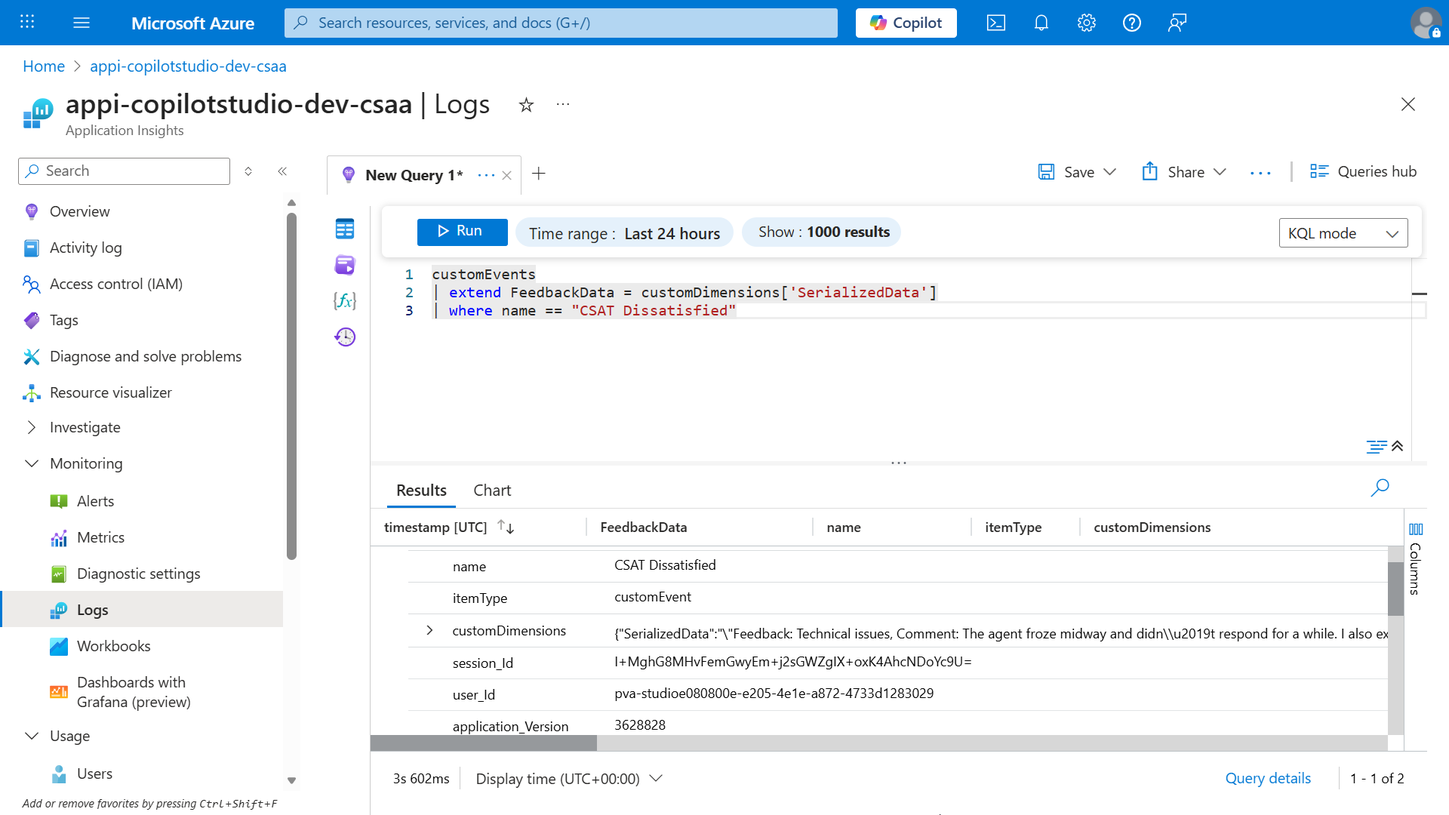
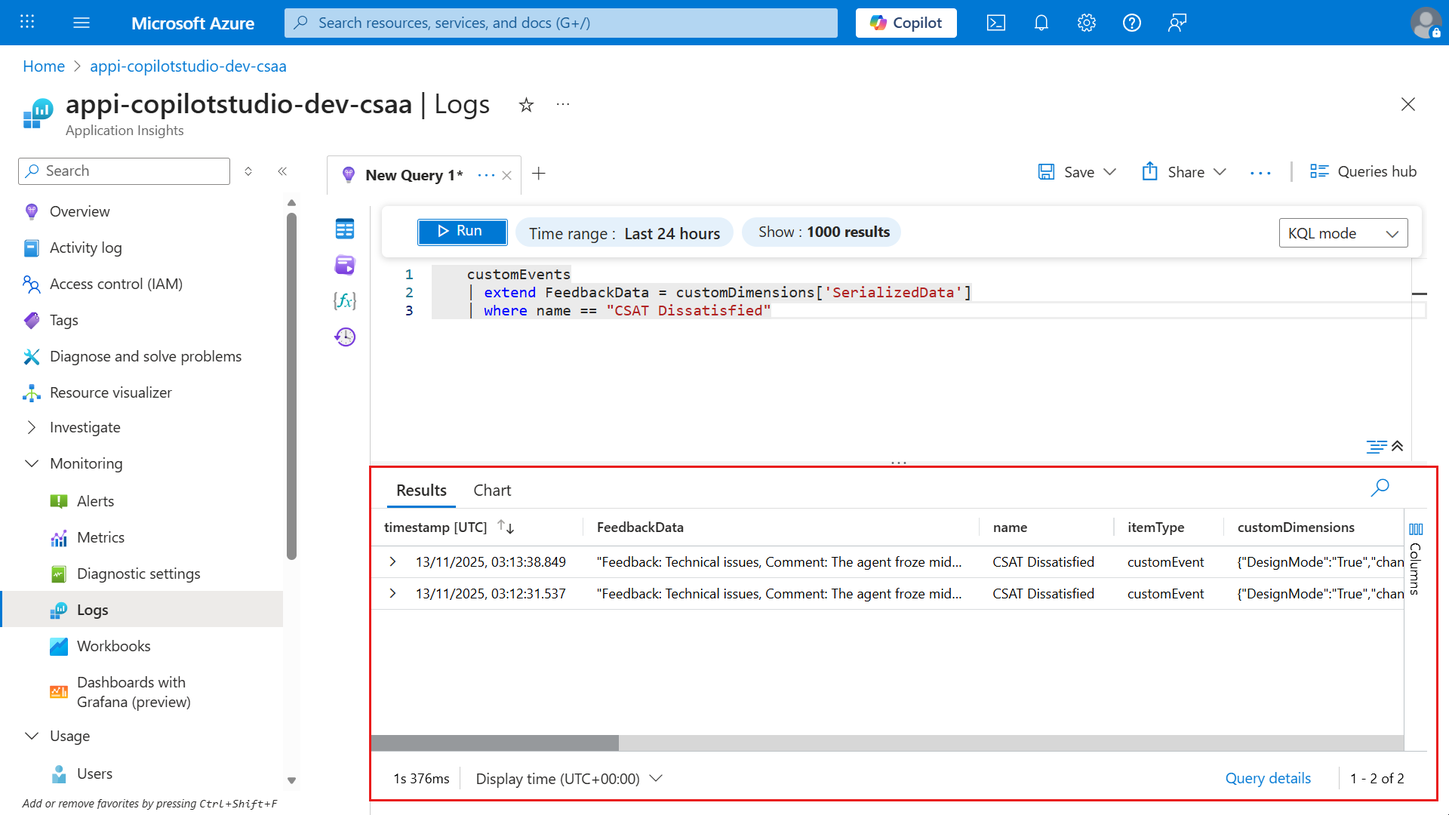
Updated lab exercises for docs\operative-preview\05-agent-responses\README.md and cspell.json

diff --git a/docs/operative-preview/11-obtain-user-feedback/README.md b/docs/operative-preview/11-obtain-user-feedback/README.md
@@ -10,21 +10,23 @@
 
 Welcome back, Agent. In [Mission 10](../04-agent-instructions/README.md) - you learnt how to build an effective prompt to generate documents.
 
-Your assignment, should you choose to accept it, is **Operation Echo** - focusing on collecting feedback to understand user satisfaction towards the agents you develop. This feedback loop allows you to make iterative enhancements to your agent to ensure end user satisfaction.
+Your assignment, should you choose to accept it, is **Operation Echo,** a critical intelligence-gathering mission focused on extracting actionable feedback from your deployed AI agents. In the shadowy world of conversational intelligence, user satisfaction data is more valuable than gold. This mission will teach you two primary methods of intelligence collection:
 
-TBC
+**Phase 1: Surveillance** - Deploy built-in reaction mechanisms (👍🏻/👎🏻) to conduct monitoring of user sentiment.
 
-Listen, modify, repeat - this is the mission when reviewing user feedback.
+**Phase 2: Active Engagement** - Implement custom Adaptive Card feedback systems for targeted intelligence gathering when deeper insights are required.
+
+*Listen, analyze, adapt* - this is the operative's creed when processing user intelligence.
 
 ## 🔎 Objectives
 
 In this mission, you'll learn:
 
-1. TBC
-1. TBC
-1. TBC
-1. TBC
-1. TBC
+1. How to use built-in thumbs up/down reactions to collect feedback from users
+1. How to analyze feedback data using Copilot Studio's Analytics dashboard
+1. How to create custom feedback collection using Adaptive Cards
+1. How to implement conditional feedback flows based on CSAT ratings
+1. How to log custom telemetry events to Azure Application Insights for advanced feedback tracking
 
 ## The importance of user feedback
 
@@ -57,13 +59,13 @@ After each AI response, users will see a small UI with 👍🏻/👎🏻 icons. 
 The thumbs up/down system's primary purpose is to measure user satisfaction at the response level. It provides immediate, granular feedback on whether each answer fulfilled the user's needs or not. Key benefits include:
 
 - **Quick Sentiment Signal**: A thumbs-up means the user was satisfied, while thumbs-down flags dissatisfaction. This binary signal is easy for users to provide and easy for developers to interpret at scale.
-- **Aggregated “Satisfaction” Metric**: In _Copilot Studio Analytics_, a "Reactions" section (under the broader Satisfaction analytics) tallies all feedback received. You can quickly see how many responses were marked positive or negative over time. This serves as a satisfaction scorecard for your agent's responses.
+- **Aggregated “Satisfaction” Metric**: In *Copilot Studio Analytics*, a "Reactions" section (under the broader Satisfaction analytics) tallies all feedback received. You can quickly see how many responses were marked positive or negative over time. This serves as a satisfaction scorecard for your agent's responses.
 - **Identify Improvement Areas**: By filtering or reviewing thumbs-down instances and their comments, developers can spot patterns. For example, specific topics or questions that often get negative feedback. These are prime candidates for improving your knowledge base or refining your prompts.
 - **No Coding Required**: Since it's built-in, makers do not need to configure anything to start collecting this feedback (the setting is on by default). The data is automatically available in the Copilot Studio analytics dashboard.
 
 ### Why it matters
 
-This reaction mechanism gives immediate, objective insight into how well the AI is performing from the user's perspective. Reviewing user feedback helps identify new user scenarios and issues, and make improvements based on what users are asking for. In short, thumbs feedback is a quick pulse-check on each answer's usefulness
+This reaction mechanism gives immediate, objective insight into how well the AI is performing from the user's perspective. Reviewing user feedback helps identify new user scenarios and issues, and make improvements based on what users are asking for. In short, thumbs feedback is a quick pulse-check on each answer's usefulness.
 
 ## Viewing and interpreting feedback analytics
 
@@ -73,8 +75,8 @@ Copilot Studio provides a dedicated analytics view to make sense of the collecte
 - **Filter and Details**: You can drill down by selecting "See details" on the Reactions chart. This typically lets you filter feedback by type (all/thumbs-up/thumbs-down) and view the list of user comments associated with each feedback. Comments are extremely useful – a thumbs-down by itself signals a problem, but the user's comment might explain why `"The answer was incorrect"` or `"Didn't address my question"` etc.
 - **Trend Over Time**: The analytics can be viewed for different date ranges (last 7 days, 30 days, etc., up to 90 days). Monitoring trends helps see if recent changes to the agent improved satisfaction - for example, an increase in thumbs-up percentage after adding a new knowledge source.
 - **Session CSAT vs Per-Response Reactions**: The **Satisfaction** analytics also include a **Survey results** section for end-of-session customer satisfaction (CSAT) surveys. Don't confuse this with the per-response thumbs reactions:
-      - _Reactions_: feedback on individual answers (our focus here)
-      - _Survey Results_: an optional overall rating at the end of a conversation (a 1–5 star survey). Both appear under **Satisfaction** analytics, but thumbs reactions specifically populate the **Reactions** chart.
+      - *Reactions*: feedback on individual answers (our focus here)
+      - *Survey Results*: an optional overall rating at the end of a conversation (a 1–5 star survey). Both appear under **Satisfaction** analytics, but thumbs reactions specifically populate the **Reactions** chart.
 
 Interpreting the data: A high ratio of 👍🏻 vs 👎🏻 means most answers are on target. A spike in 👎🏻 for certain questions might reveal a knowledge gap or a misunderstanding by the AI. For instance, if many users give a thumbs down after asking about "pricing" it signals the agent's answer on pricing is unsatisfactory – perhaps outdated or incomplete. Developers should investigate those chat transcripts and improve content for that topic.
 
@@ -117,7 +119,7 @@ This means after the agent generates an answer, you can immediately follow up wi
 1. **(Optional) Store or forward the feedback**: The feedback collected via Adaptive Card is not automatically saved to the Analytics like the built-in reactions. If you want to persist this data for analysis, you should explicitly store it. For example, you could call a Power Automate flow or an API to record the feedback in a database or SharePoint list, including context like which question it was for. Alternatively, since the feedback appears as part of the conversation transcript (the user's selection is essentially a message from the user), it will be saved in Dataverse conversations. But it will be in a raw text/JSON form, you'd have to extract it for reporting.
 
 !!! tip "Best Practice"
-    Adaptive Cards in Copilot Studio are supported in all channels that the agent supports, but be mindful of Adaptive Card schema version differences. Copilot Studio uses Adaptive Cards v1.6 in the web test chat, but Microsoft Teams and some other channels support up to **v1.5**. In practice, this means if you design your card with features only in 1.6, it _might not_ render in Microsoft Teams. Best practice is to stick to v1.5 features for broad compatibility, or test your card in each channel. The good news is the typical feedback card (text, buttons) is basic and works fine in all channels.
+    Adaptive Cards in Copilot Studio are supported in all channels that the agent supports, but be mindful of Adaptive Card schema version differences. Copilot Studio uses Adaptive Cards v1.6 in the web test chat, but Microsoft Teams and some other channels support up to **v1.5**. In practice, this means if you design your card with features only in 1.6, it *might not* render in Microsoft Teams. Best practice is to stick to v1.5 features for broad compatibility, or test your card in each channel. The good news is the typical feedback card (text, buttons) is basic and works fine in all channels.
 
 ## 🦜 Why use Adaptive Cards for feedback
 
@@ -137,11 +139,11 @@ In summary, Adaptive Cards for feedback are ideal when you need more than a bina
 
 1. **Handle the response gracefully**: When the user clicks feedback, you might simply thank them silently (no need to always say `"Thanks for your feedback"` every time). In a support scenario, if someone says the answer wasn't useful, you might follow up to help: `"Sorry about that. Let me clarify or escalate your question."` This turns a negative feedback into an opportunity to recover the user's satisfaction.
 
-1. **Data Handling and Privacy**: The feedback data from the adaptive card is just part of the conversation in terms of storage. It will _not_ show up in the Copilot Studio Analytics dashboard (since that only tracks the built-in feedback reaction mechanism). It also won't automatically appear in any compliance audits (those typically log that a user message was sent, but not the content of an Adaptive Card submission specifically). So, if analyzing this feedback is important, plan to capture it. You can create an agent flow triggered by the conversation to write each feedback entry to a separate Dataverse table or external storage along with relevant info (user ID, question asked, etc.). This way you can do your own reporting on it.
+1. **Data Handling and Privacy**: The feedback data from the adaptive card is just part of the conversation in terms of storage. It will *not* show up in the Copilot Studio Analytics dashboard (since that only tracks the built-in feedback reaction mechanism). It also won't automatically appear in any compliance audits (those typically log that a user message was sent, but not the content of an Adaptive Card submission specifically). So, if analyzing this feedback is important, plan to capture it. You can create an agent flow triggered by the conversation to write each feedback entry to a separate Dataverse table or external storage along with relevant info (user ID, question asked, etc.). This way you can do your own reporting on it.
 
 1. **Disable built-in reactions to avoid duplication**: If you are fully relying on a custom feedback card for every answer, it might be wise to turn off the default thumbs feedback in the agent settings. Otherwise, users will see two feedback requests (the thumbs UI and your adaptive card) for the same response, which is confusing and overkill. Most implementations choose either one method or the other in production. However, you could still use both in different contexts - for example, maybe you keep thumbs enabled for Teams users, but on a custom website you use a tailored card. In any case, ensure the user isn't bombarded with redundant feedback prompts.
 
-1. **Test on all channels**: Because Adaptive Cards can render a bit differently in Teams vs. web chat, test your feedback cycle in each deployed channel. Make sure the card looks as intended and the submission is received by the agent. For instance, if using Teams, ensure the card's schema is _less than or equal to 1.5_ as noted earlier. Also verify that on mobile versions of Teams or web chat, the adaptive card is still easily usable.
+1. **Test on all channels**: Because Adaptive Cards can render a bit differently in Teams vs. web chat, test your feedback cycle in each deployed channel. Make sure the card looks as intended and the submission is received by the agent. For instance, if using Teams, ensure the card's schema is *less than or equal to 1.5* as noted earlier. Also verify that on mobile versions of Teams or web chat, the adaptive card is still easily usable.
 
 !!! note ""
     In the Copilot Studio documentation [example](https://learn.microsoft.com/microsoft-copilot-studio/guidance/adaptive-card-add-feedback-for-every-response), once the adaptive card feedback was set up, they provided a YAML snippet indicating how the agent can route the "useful/not useful" responses to a specific handling topic. This is a hint at the implementation: essentially treat the feedback like an intent that triggers either a follow-up or just completes. Implementing this means editing your agent's topics (or code) to catch those JSON responses.
@@ -158,11 +160,11 @@ Both feedback collection methods aim to improve your Copilot agent via user inpu
 | **Data captured** | Reaction (+ optional comment). Example: `"thumbs down (with comment: 'irrelevant answer')"`. No structured category beyond up/down. | Whatever data you design. Example: you might capture `"Rating: 3 stars"` or `"FeedbackChoice: NotUseful + Reason: Outdated info"`. The card submission is received as a JSON payload (key-value pairs) which you can parse |
 | **Analytics and visibility** | Automatically aggregated in Copilot Studio **Analytics** in **Satisfaction** section. Shows total count of 👍🏻 vs 👎🏻, and allows filtering/viewing comments | Not shown in Copilot Studio Analytics by default. These responses are essentially part of the conversation flow (stored in transcripts) and do not feed the out-of-box dashboards. You need to create your own reporting mechanism if you want to summarize this feedback. |
 | **Extensibility** | Limited (thumbs UI is fixed). Can't change the question or add more options to built-in mechanism. You can turn it off or on, that's it. | Extensible. You craft the adaptive card and can evolve it. Example: adding a third option `"Partially helpful"`, or asking a follow-up question if they respond negatively. Also, you decide when to invoke it (doesn't have to be every turn). |
-| **Ideal use cases** | General satisfaction monitoring for your agent's answers. Best when you want a quick gauge of every response's quality and a simple success metric to track over time. Great for initial deployments to gather broad feedback with minimal effort. | Deep feedback or custom workflows. Useful when specific insights are needed, Example: which of several answers is better, or when integrating feedback into other systems (like creating bug reports, triggering human review). Also valuable if you want to collect feedback in a specific format such as _category tags_ that the built-in reactions mechanism doesn't support. |
+| **Ideal use cases** | General satisfaction monitoring for your agent's answers. Best when you want a quick gauge of every response's quality and a simple success metric to track over time. Great for initial deployments to gather broad feedback with minimal effort. | Deep feedback or custom workflows. Useful when specific insights are needed, Example: which of several answers is better, or when integrating feedback into other systems (like creating bug reports, triggering human review). Also valuable if you want to collect feedback in a specific format such as *category tags* that the built-in reactions mechanism doesn't support. |
 
 As a rule of thumb (no pun intended 😆), **start with the built-in thumbs feedback** for any new agent – it's easy and provides immediate value in understanding user satisfaction. As your solution matures, if you find the need for more nuanced feedback, you can experiment with an Adaptive Card approach.
 
-Some advanced implementations even use both: for example, keeping thumbs up/down _enabled_, but also asking a targeted question via an adaptive card at the end of a session (like a mini survey). In that case, you'd get per-response sentiment (via reactions) and an overall session rating or comment (via your card). However keep in mind that the built-in CSAT is also covered by the Copilot Studio Analytics as highlighted earlier. Therefore as we learnt in this mission, record responses from adaptive cards to build your own custom reporting.
+Some advanced implementations even use both: for example, keeping thumbs up/down *enabled*, but also asking a targeted question via an adaptive card at the end of a session (like a mini survey). In that case, you'd get per-response sentiment (via reactions) and an overall session rating or comment (via your card). However keep in mind that the built-in CSAT is also covered by the Copilot Studio Analytics as highlighted earlier. Therefore as we learnt in this mission, record responses from adaptive cards to build your own custom reporting.
 
 Ultimately, for most scenarios using one method at a time is clearer. If you opt for custom adaptive cards, it often makes sense to disable the default reactions to provide a single, cohesive feedback channel to the user.
 
@@ -279,7 +281,7 @@ Let's go!
 
        ![Add new topic from blank](assets/11.3.1_04_EditAdaptiveCard.png)
 
-1. This is the **Adaptive Card Designer** where you can design your card and see the card design in-real time. Click into the **Card payload editor** and select all lines using the Windows keyboard shortcut of _Ctrl + A_ or using the Mac keyboard shortcut of _Command + A_, followed by deleting the lines. **Paste** the JSON from the [CSAT Feedback JSON file](assets/11.3.1_CSATFeedback.json).
+1. This is the **Adaptive Card Designer** where you can design your card and see the card design in-real time. Click into the **Card payload editor** and select all lines using the Windows keyboard shortcut of *Ctrl + A* or using the Mac keyboard shortcut of *Command + A*, followed by deleting the lines. **Paste** the JSON from the [CSAT Feedback JSON file](assets/11.3.1_CSATFeedback.json).
 
        ![Clear default JSON value and paste from CSATFeedback.json file](assets/11.3.1_05_UpdateJSON.png)
 
@@ -349,8 +351,8 @@ We're now going to update the **End of Conversation** system topic to redirect t
 1. The **Condition** node is now added to the system topic.
 
     !!! note "The logic to be applied to the Condition node"
-        - If the user’s CSAT rating is `3`, `4`, or `5`, the conversation flow will follow the branch connected to this condition. This will act as a positive (satisfied) feedback path for ratings `3` and above.
-        - If the rating is `1` or `2`, the conversation flow will go to the **All other conditions** branch. This will act as a negative (dissatisfied) feedback path fro rating below `3`.
+        - If the user's CSAT rating is `3`, `4`, or `5`, the conversation flow will follow the branch connected to this condition. This will act as a positive (satisfied) feedback path for ratings `3` and above.
+        - If the rating is `1` or `2`, the conversation flow will go to the **All other conditions** branch. This will act as a negative (dissatisfied) feedback path for ratings below `3`.
 
     In the **Condition** node select the **greater than** icon to define the variable.
 
@@ -414,7 +416,7 @@ We're now going to update the **End of Conversation** system topic to redirect t
 
        ![Yes the question has been answered](assets/11.3.2_19_YesToAnsweringQuestion.png)
 
-1. Will now see the CSAT question. Select 1 star or 2 stars as the rating.
+1. We will now see the CSAT question. Select 1 star or 2 stars as the rating.
 
        ![CSAT rating](assets/11.3.2_20_CSATSurvey.png)
 
@@ -556,7 +558,7 @@ Let's begin!
 
        ![Copy Connection string value](assets/11.4_07_CopyConnectionStringValue.png)
 
-1. Navigates back to Copilot Studio and paste the copied connecting string value into the **Connection string** field.
+1. Navigate back to Copilot Studio and paste the copied connection string value into the **Connection string** field.
 
     **Save** the updated settings.
 
@@ -578,7 +580,7 @@ Let's begin!
 
        ![Yes the question has been answered](assets/11.3.2_19_YesToAnsweringQuestion.png)
 
-1. Will now see the CSAT question. Select 1 star or 2 stars as the rating.
+1. We will now see the CSAT question. Select 1 star or 2 stars as the rating.
 
        ![CSAT rating](assets/11.3.2_20_CSATSurvey.png)
 
@@ -641,7 +643,7 @@ Let's begin!
 
        ![Run customEvents query](assets/11.4_23_RunCustomEvents.png)
 
-1. The results of the query will be displayed. By default it will display events from the last _24 hours_ and show only _1000 results_.
+1. The results of the query will be displayed. By default it will display events from the last *24 hours* and show only *1000 results*.
 
        ![customEvents results](assets/11.4_24_customEventsResults.png)
 
@@ -656,6 +658,8 @@ Let's begin!
     | extend FeedbackData = customDimensions['SerializedData']
     | where name == "CSAT Dissatisfied"
     ```
+
+    **Run** the query.
 
     !!! info "Explanation"
 
@@ -674,6 +678,14 @@ Let's begin!
 
        ![Kusto query](assets/11.4_26_KustoQuery.png)
 
+1. The results of the query will be displayed. Expand one of the results.
+
+       ![Query results](assets/11.4_27_Results.png)
+
+1. Scroll down and you'll see the new FeedbackData column defined in the Kusto query.
+
+       ![FeedbackData column](assets/11.4_28_ExtendSerializedData.png)
+
 ## ✅ Mission Complete
 
 Congratulations! 👏🏻 Excellent work, Operative.
@@ -683,7 +695,7 @@ value
 
 Feedback is paramount to iterative improvements to your agents!
 
-This is the end of **Lab 11 - TBC**, select the link below to move to the next lesson.
+This is the end of **Lab 11 - Provide feedback using built-in interactions vs adaptive cards (custom)**, select the link below to move to the next lesson.
 
 ⏭ [Move to **Publishing Your Agents to a Demo Website for Stakeholder Testing** lesson](../12-demo-website/README.md)
 

diff --git a/docs/operative-preview/05-agent-responses/README.md b/docs/operative-preview/05-agent-responses/README.md
@@ -20,11 +20,10 @@ Choose the right model for your agent and format responses to be impactful, clea
 
 In this mission, you'll learn:
 
-1. TBC
-1. TBC
-1. TBC
-1. TBC
-1. TBC
+1. How to understand and select the optimal AI model for your agent's use case
+1. How to compare different model capabilities and performance characteristics
+1. How to configure response formatting to enhance readability and user experience
+1. How to implement consistent styling and structure for agent responses
 
 ## 🤔 What is the Agent Model?
 
@@ -36,17 +35,46 @@ Selecting the appropriate model ensures your agent performs optimally for your u
 
 ### 🪁 Available models
 
+Copilot Studio supports OpenAI models and Anthropic models. Each model will have a category tag and an availability tag.
+
+#### Model use categories
+
+Different models are designed for specific tasks. Selecting the right model improves your agent’s performance. For instance, use a Deep model for complex decision-making or a General model for broad, conversational topics.
+
+The table below outlines model tags, their strengths, and key considerations - [source](https://learn.microsoft.com/en-us/microsoft-copilot-studio/authoring-select-agent-model#model-use-categories).
+
+| Tag | Description | Strengths | Latency | Cost | Reasoning depth |
+|-------|----------|----------|-------------|-----------|-----------|
+| **Deep** | Optimized for deliberate, multi-step reasoning and tool-supported workflows. | Complex analytics, multi-hop reasoning, policy and contract analysis, troubleshooting with multi-system steps, and synthesis of long documents with citations | Highest | Highest | Multi-step, tool-rich |
+| **Auto** | Optimized for coverage across mixed workloads; routes queries dynamically. | Helpdesk and employee agents with mixed intents, blending knowledge and actions, and tier‑0 customer support with unpredictable complexity | Variable | Variable | Multi-step, tool-rich |
+| **General** | Optimized for speed and cost on everyday chat and light grounding. | Drafting, rewriting, summarizing, and translation, FAQ-style grounded answers, and simple action automation | Lowest | Lowest | Shallow-to-moderate |
+
+#### Model availability
+
+Models are released in stages. You can explore cutting-edge options like Experimental or Preview models, or stick with a stable, fully tested Generally Available model.
+
+The table below explains the availability tags - [source](https://learn.microsoft.com/en-us/microsoft-copilot-studio/authoring-select-agent-model#model-use-categories).
+
+| Tag | Description |
+| **Experimental** | Used for experimentation, and not recommended for production use. Subject to preview terms, and can have limitations on availability and quality. See [Limitations of experimental and preview models.](https://learn.microsoft.com/en-us/microsoft-copilot-studio/authoring-select-agent-model#limitations-of-experimental-and-preview-models) |
+| **Preview** | Will eventually become a generally available model, but currently not recommended for production use. Subject to preview terms, and can have limitations on availability and quality. See [Limitations of experimental and preview models.](https://learn.microsoft.com/en-us/microsoft-copilot-studio/authoring-select-agent-model#limitations-of-experimental-and-preview-models) |
+| **No tag** | Generally available. You can use this model for scaled and production use. In most cases, generally available models have no limitations on availability and quality, but some might still have some limitations, like regional availability. |
+| **Default** | The default model for all agents, and usually the best performing generally available model. The default model is periodically upgraded as new, more capable models become generally available. Agents also use the default model as a fallback if a selected model is turned off or unavailable. |
+| **Retired** | When a new model becomes the default model, the old default model is retired. You can still use the retired model for up to one month after retirement. For more information, see [Continue using a retired AI model](https://learn.microsoft.com/en-us/microsoft-copilot-studio/authoring-retired-model). |
+
 #### OpenAI models
 
-AI capabilities evolve rapidly, and Copilot Studio keeps up by offering a range of Azure OpenAI models. As of 2025, the primary models to choose from include Microsoft’s GPT-4.1 family, the “o” series for reasoning, and the latest GPT-5 previews. The following table summarizes the main choices and what each is best suited for:
+AI capabilities evolve rapidly, and Copilot Studio keeps up by offering a range of Azure OpenAI models. As of 2025, the primary models to choose from include OpenAI's GPT-4.1, and the latest GPT-5 previews. The following table summarizes the main choices and what each is best suited for:
 
-| Model Version | Status | Key Strengths | Ideal Use Cases |
-|-------|----------|-------------|-----------|
-| **GPT‑4o (Default)** | General Availability | - Fast, cost-effective responses. - Good for most standard tasks with moderate complexity | Everyday Q&A, summaries, routine helpdesk scenarios where quick answers matter and budget is limited |
-| **GPT-4.1** | Preview | - Higher-quality outputs, superior for complex tasks - Larger AI model with more advanced reasoning than GPT-4.1 Mini (may be slightly slower) | Complex queries, detailed content generation or analysis. Suitable for projects needing high accuracy and can afford higher latency or cost |
-| **o3 (Generative OpenAI)** | General Availability | - Specialized for reasoning and decision logic - Excels at nuanced problem-solving and complex analysis tasks | Use when your agent must perform sophisticated reasoning, such as intricate planning, multi-step problem solving, or data analysis with critical thinking |
-| **GPT‑5 Auto** | Experimental | - Latest-generation model with improved context awareness and up-to-date training (Sept 2024) - Handles the highest complexity in planning and analytical tasks with slower, more methodical responses. | Cutting-edge scenarios needing the most context-aware answers or enhanced document/image processing. Use to evaluate advanced capabilities early, but not yet for mission-critical production due to preview status. |
-| **GPT‑5 Reasoning** | Experimental | - Latest model optimized for complex reasoning (trained up to Oct 2024) - High scores in document understanding and response accuracy | Advanced reasoning tasks where top-tier analytical capability is required (such as extensive planning, interpreting complex data). Again, use cautiously in testing since it’s a preview model. |
+| Model Version | Category | Availability | Key Strengths | Ideal Use Cases |
+|-------|----------|----------|-------------|-----------|
+| **GPT‑4o** | General | Retired | Fast, versatile responses; supports text and image input; cost-effective balance of speed and accuracy. | Routine Q&A; summarizing support chats or calls; quick content drafts; tasks combining text with visuals. |
+| **GPT-4.1** | General | Default | Higher accuracy and reasoning than GPT-4o; excellent at complex text analysis (text-only model). | Analyzing detailed documents (policies, reports); complex knowledge-base Q&A; scenarios where precision is critical. |
+| **GPT‑5 Chat** | General | Preview | Advanced conversational abilities with strong context retention; produces human-like dialogue. |Employee self-service chatbots; IT/HR helpdesk assistants; interactive agents requiring natural, human-like responses. |
+| **GPT‑5 Auto** | Auto | General | Optimized for orchestrating multi-step workflows; can automate actions across systems (not just chit-chat). | End-to-end process automation (e.g. ticket creation to resolution); multi-step task sequences across apps; "digital project manager" scenarios. |
+| **GPT‑5 Reasoning** | Deep | Preview | - Latest model optimized for complex reasoning (trained up to Oct 2024) - High scores in document understanding and response accuracy | Advanced reasoning tasks where top-tier analytical capability is required (such as extensive planning, interpreting complex data). Again, use cautiously in testing since it’s a preview model. |
+| **GPT‑5.1 Chat** | General | Experimental | Latest experimental conversational model with broad task proficiency; improves on context awareness and responsiveness. | General-purpose Q&A and dialogue tasks leveraging the newest model’s capabilities; versatile chatbot scenarios where enhanced performance is beneficial. |
+| **GPT‑5.1 Reasoning** | Deep | Experimental | Experimental top-tier reasoning model offering maximum depth and accuracy for complex tasks. | Ultra-complex analytical queries or decision support requiring the highest precision (e.g. intricate strategic planning, high-stakes data analysis). |
 
 !!! warning
 
@@ -67,12 +95,12 @@ Both are available in Microsoft Copilot Studio as opt-in preview (Frontier Progr
 
 | Model Version | Status | Key Strengths | Ideal Use Cases |
 |-------|----------|-------------|-----------|
-| **Claude Sonnet 4.5** | External Preview | - Enterprise-ready safety: Improved alignment, reduced prompt injection risk, and strong error correction. - Advanced reasoning & math: Significant gains in multi-step reasoning and computational accuracy. | - Building autonomous coding agents and developer copilots. - Complex, multi-step workflows - Enterprise AI agents requiring long context and sustained reasoning. |
-| **Claude Opus 4.1** | External Preview | - Deep reasoning and complex problem-solving - Creative and multilingual so suitable for content generation, translation and narrative writing | - High stakes reasoning: legal, financial or scientific analysis - Enterprise research agents: synthesizing insights from large datasets -Advanced coding projects: multi-file refactoring, debugging, and architectural design - Creative generation: marketing copy, long-form content, multilingual support. |
+| **Claude Sonnet 4.5** | Experimental | Excels at code-related tasks and complex “agent” workflows; strong at tool use and step-by-step reasoning. | Advanced software development assistance (code generation & debugging); building multi-step autonomous agents; tasks requiring integration with external tools or systems. |
+| **Claude Opus 4.1** | Experimental | Specialized for intensive analysis and structured problem-solving. | In-depth data analysis and research projects; complex reasoning scenarios (e.g. compliance auditing, elaborate planning) where thoroughness is paramount. |
 
 !!! warning
 
-    - It's important to note that these are external models. Anthropic models are hosted outside Microsoft and are subject to Anthropic terms and data handling, which need to be reviewed and accepted before makers can use them. These models are available before an official release so that you can get early access and [provide feedback](https://community.powerplatform.com/forums/thread/?groupid=db8f53c2-767d-47d6-a1ae-fe4c828a6553). Therefore is not recommended to use these models for Production purposes.
+    - It's important to note that these are external models. Anthropic models are hosted outside Microsoft and are subject to Anthropic terms and data handling, which need to be reviewed and accepted before makers can use them. These models are available before an official release so that you can get early access and [provide feedback](https://community.powerplatform.com/forums/thread/?groupid=db8f53c2-767d-47d6-a1ae-fe4c828a6553). Therefore, it is not recommended to use these models for Production purposes.
 
     - Please note that you could also experience slowdowns or timeouts due to limited capacity and availability, and these models might not be supported in the future. Admins can control access to this feature (more of this soon as you progress from here!).
 
@@ -192,7 +220,7 @@ Copilot Studio generative answers support a subset of Markdown for rich text. He
 
 | Formatting Option | Purpose and Effect  | Example Usage |
 |----------|------------|---------|
-| **Bold** | Makes important words or phrases stand out. Use bold to highlight key | **"Your account balance is $1,250."** - The amount is bold so it’s immediately noticeable.  |
+| **Bold** | Makes important words or phrases stand out. Use bold to highlight key information or critical values. | **"Your account balance is $1,250."** - The amount is bold so it's immediately noticeable. |
 | _Italics_ | Adds subtle emphasis or denotes special terms. Commonly used for document titles, or to highlight a _phrase_ in a softer way than bold. | _"Please provide additional details for verification."_ - The words “additional details” are italicized to indicate a prompt or placeholder. |
 | Hyperlinks | Inserts clickable links in the response text. Useful for directing users to external articles, internal knowledge base, or any detailed reference. | "Refer to our [Microsoft Surface Warranty and Protection Plans](https://www.microsoft.com/surface/business/warranty-protection-plans-and-support) for more details." - The text "Microsoft Surface Warranty and Protection Plans" is a hyperlink to the web page. |
 | Power Fx expressions | Embeds dynamic content or logic-driven text in the response. Power Fx can pull in variables, do calculations, or enforce formatting (even with regex for validation). This allows parts of the answer to be determined by real-time data or conditions. | "Today is `${Text(Now(), "dddd, mmmm d, yyyy")}`." - This uses a Power Fx formula to insert the current date in a long format, `Friday, October 3, 2025`. You could also use expressions to format numbers, or ensure an output meets a pattern (using regex). |
@@ -248,13 +276,39 @@ In summary, use formatting to enhance clarity, not distract. The user should be 
 
 ## 🧪 Lab 05 - Model selection and response formatting for the Interview Agent
 
+We're next going to change the model of the Hiring agent and add instructions for the agent's response formatting.
+
 ### 5.1 Change the model of the Interview Agent
 
-TBC
+Let's compare the responses of the GPT-4.1 default model with the GPT 5.1 Chat experimental model.
 
-### 5.1 Adding instructions for response formatting
+1. Start a new test session in the **Hiring Agent** and enter the following question below. Use a **Resume Number** value from your existing active resumes in the **Hiring Hub** model-driven app.
 
-TBC
+    ```text
+    Summarize resume RXXXXX
+    ```
+
+       ![Enter first question for GPT-4.1 default model](assets/5.1_01_GPT-4.1DefaultModel.png)
+
+1. A summary of the resume will next be displayed and we can see it's in the output of bullet points.
+
+       ![Question 1 response](assets/5.1_02_01_Question1Response.png)
+
+       ![Question 1 response](assets/5.1_02_02_Question1Response.png)
+
+1. We'll ask another question for suggestions of questions to ask based on the evaluation criteria of a job role. Enter the question below.
+
+    ```text
+    Can you provide suggestions of questions to ask in an interview for the Power Platform developer role based on the evaluation criteria?
+    ```
+
+       ![Question 2](assets/5.1_03_Question2.png)
+
+1. A response with the suggested questions are displayed and is categorized in different headings that represent 
+
+### 5.2 Adding instructions for response formatting
+
+Coming soon
 
 ## ✅ Mission Complete
 
@@ -265,7 +319,7 @@ Congratulations! 👏🏻 Excellent work, Operative.
 
 This enables the **Interview Agent** to be equipped in answering questions and inquiries using the power of the selected model and elegantly follow the same response format each time.
 
-This is the end of **Lab 05 - TBC**, select the link below to move to the next lesson.
+This is the end of **Lab 05 - Model selection and response formatting for the Interview Agent**, select the link below to move to the next lesson.
 
 ⏭ [Move to **AI Safety and Content Moderation** lesson](../06-ai-safety/README.md)
 
